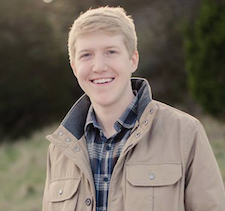
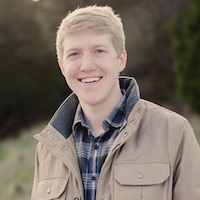
standardized image sizes

diff --git a/FreeSpirits/templates/about.html b/FreeSpirits/templates/about.html
@@ -17,7 +17,7 @@
 
 <div class="tab-content">
   <div class="tab-pane active fade in" id="team">
-      <div class="container">
+      <div class="container" id="teamcontainer">
             <div class="row">
                 <div class="col-lg-12 text-center">
                     <h2 class="section-heading">Our Team</h2>
@@ -59,7 +59,7 @@
                 </div>
                 <div class="col-sm-4">
                     <div class="team-member">
-                        <img src="../static/img/larry.jpg" class="img-responsive img-circle" alt="" width="200">
+                        <img src="../static/img/larry.png" class="img-responsive img-circle" alt="" width="200">
                         <h4>Larry Liu</h4>
                         <p class="text-muted">System Administrator</p>
                         <ul class="list-inline social-buttons">
@@ -124,7 +124,8 @@
     </div>
     
     <div class="tab-pane fade" id="credits">
-        <div class="creditscontent">
+        <div class="container" id="teamcontainer">
+        <div class="creditscontent" id="creditscontainer">
             <br>
         <t><a href="https://github.com/zaneu/cs373-idb">Github</a></t>
     <a href="https://github.com/zaneu/cs373-idb">
@@ -136,6 +137,7 @@
 
         </div>
     </div>
+        </div>
 </div>
 </div>
 

diff --git a/FreeSpirits/static/css/index.css b/FreeSpirits/static/css/index.css
@@ -19,7 +19,7 @@
 }
 
 .nav-tabs {
-    margin-left: 20px;
+    margin-left: 40px;
     /*background: yellow;  A color just for debug */
 }
 
@@ -27,4 +27,17 @@
     margin-left: 40px;
     font-size: 200%;
     /*background: red; A color just for debug */
+}
+
+.active {
+   /* background-color: #163249; */
+}
+
+
+#teamcontainer {
+/*    background-color: #163249;*/
+}
+
+#creditscontainer {
+/*    background-color: #163249;*/
 }
